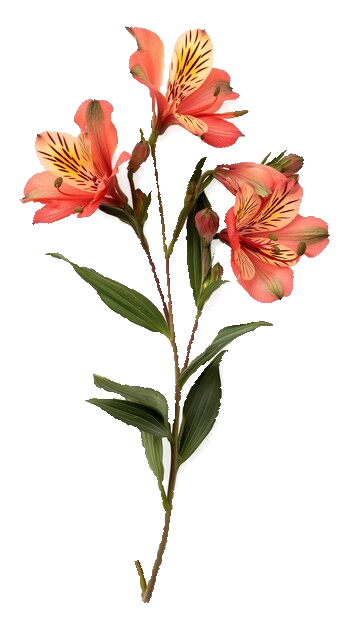
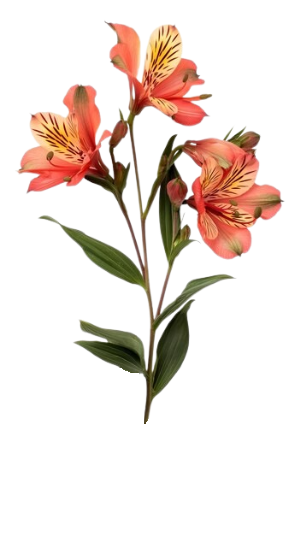
Se corrigieron errores con respecto al juego y agregado mas ramas a la linea de tiempo

diff --git a/script.js b/script.js
@@ -68,7 +68,7 @@ async function cargarTimeline() {
 }
 
 // Mes dinamico
-const fechaInicio = new Date('2026-02-07');
+const fechaInicio = new Date('2026-02-07T00:00:00');
 
 const hoy = new Date();
 
@@ -77,7 +77,7 @@ let meses =
   (hoy.getMonth() - fechaInicio.getMonth());
 
 // Si el día de hoy es menor al día 7, restamos 1 mes porque aún no se cumple
-if (hoy.getDate() < fechaInicio){
+if (hoy.getDate() < fechaInicio.getDate()){
     meses--;
 }
 
@@ -352,17 +352,18 @@ window.addEventListener('DOMContentLoaded', () => {
 
 // 1. Tu diccionario de recursos (Asegúrate de tener estas imágenes en tu carpeta img/)
 const catalogoFlores = [
-    'img/tulipanMorado.png',      // 0
-    'img/lirioRosado.AVIF',        // 1
-    'img/tulipanMorado.png',   // 2
-    'img/tulipanMorado.png',  // 3
-    'img/tulipanMorado.png'     // 4
+    'img/tulipanMorado.png',
+    'img/girasol.png',      // 0
+    'img/lirioRosado.png',        // 1
+    'img/astromeliaNaranja.png',   // 2
+    'img/rosaBlanca.png',  // 3
+    'img/rosaRosada.png'
 ];
 
 let floresEnRamo = []; // Aquí guardaremos el historial para poder borrar
 const CLAVE_SECRETA = "NUBECITA";
 let palabraEscrita = "";
-const MAX_FLORES = CLAVE_SECRETA.length; // Límite para que el ramo no explote
+const MAX_FLORES = 20; // Límite para que el ramo no explote
 
 // Función matemática para que una letra siempre dé la misma flor
 function obtenerFlorPorLetra(letra) {
@@ -396,9 +397,9 @@ window.presionarTecla = function(letra) {
 
     // 2. Matemáticas para el desorden orgánico del ramo
     // (Math.random() - 0.5) genera números positivos y negativos
-    const offsetX = (Math.random() - 0.5) * 120;  // Se mueve entre -40px y 40px a los lados
-    const rotacion = (Math.random() - 0.5) * 60; // Rota entre -25 y 25 grados
-    const offsetY = (Math.random() * -60);       // Sube aleatoriamente hasta 30px
+    const offsetX = (Math.random() - 0.5) * 70;  // Se mueve entre -40px y 40px a los lados
+    const rotacion = (offsetX * 0.6) + ((Math.random() - 0.5) * 20); // Rota entre -25 y 25 grados
+    const offsetY = (Math.random() * -45);       // Sube aleatoriamente hasta 30px
 
     // 3. Forzamos al navegador a leer el CSS para que la transición funcione
     nuevaFlor.getBoundingClientRect(); 

diff --git a/style.css b/style.css
@@ -551,26 +551,37 @@ header.hero {
     z-index: 10;
 }
 
-#papel-envoltorio {
+/* 1. Capa de Atrás */
+#papel-atras {
     position: absolute;
     bottom: 0; left: 50%; transform: translateX(-50%);
     width: 100%;
-    z-index: 5;
-    filter: drop-shadow(0px 10px 15px rgba(0,0,0,0.4));
+    z-index: 1; /* Al fondo */
+    filter: drop-shadow(0px 10px 15px rgba(0,0,0,0.4)); /* La sombra va solo en el de atrás */
 }
 
+/* 2. Capa de las Flores */
 #flores-generadas {
     position: absolute;
     top: 0; left: 0; width: 100%; height: 100%;
-    z-index: 2;
+    z-index: 2; /* En el medio (El relleno del sándwich) */
+}
+
+/* 3. Capa del Frente */
+#papel-frente {
+    position: absolute;
+    bottom: 0; left: 50%; transform: translateX(-50%);
+    width: 100%;
+    z-index: 3; /* Al frente, cubriendo los tallos */
+    /* No le ponemos drop-shadow aquí para que no cree una sombra irreal sobre las flores */
 }
 
 /* --- TAMAÑO DE LAS FLORES (Ajustado al nuevo ramo) --- */
 .flor-teclado {
     position: absolute;
-    bottom: 170px; /* Las subimos un poquito más */
+    bottom: 70px; /* Las subimos un poquito más */
     left: 50%;
-    width: 110px; /* Flores más grandes para el nuevo ramo */
+    width: 130px; /* Flores más grandes para el nuevo ramo */
     margin-left: -55px;
     transform-origin: bottom center;
     opacity: 0;

diff --git a/index.html b/index.html
@@ -50,8 +50,9 @@
 
             <!-- EL RAMO CENTRAL -->
             <div id="ramo-creativo">
+                <img src="img/ramoAtras.png" id="papel-atras" alt="Fondo del envoltorio">
                 <div id="flores-generadas"></div>
-                <img src="img/ramoRosa.png" id="papel-envoltorio" alt="Envoltorio">
+                <img src="img/ramoFrente.png" id="papel-frente" alt="frente del envoltorio">
             </div>
 
             <!-- EL TECLADO VIRTUAL -->
